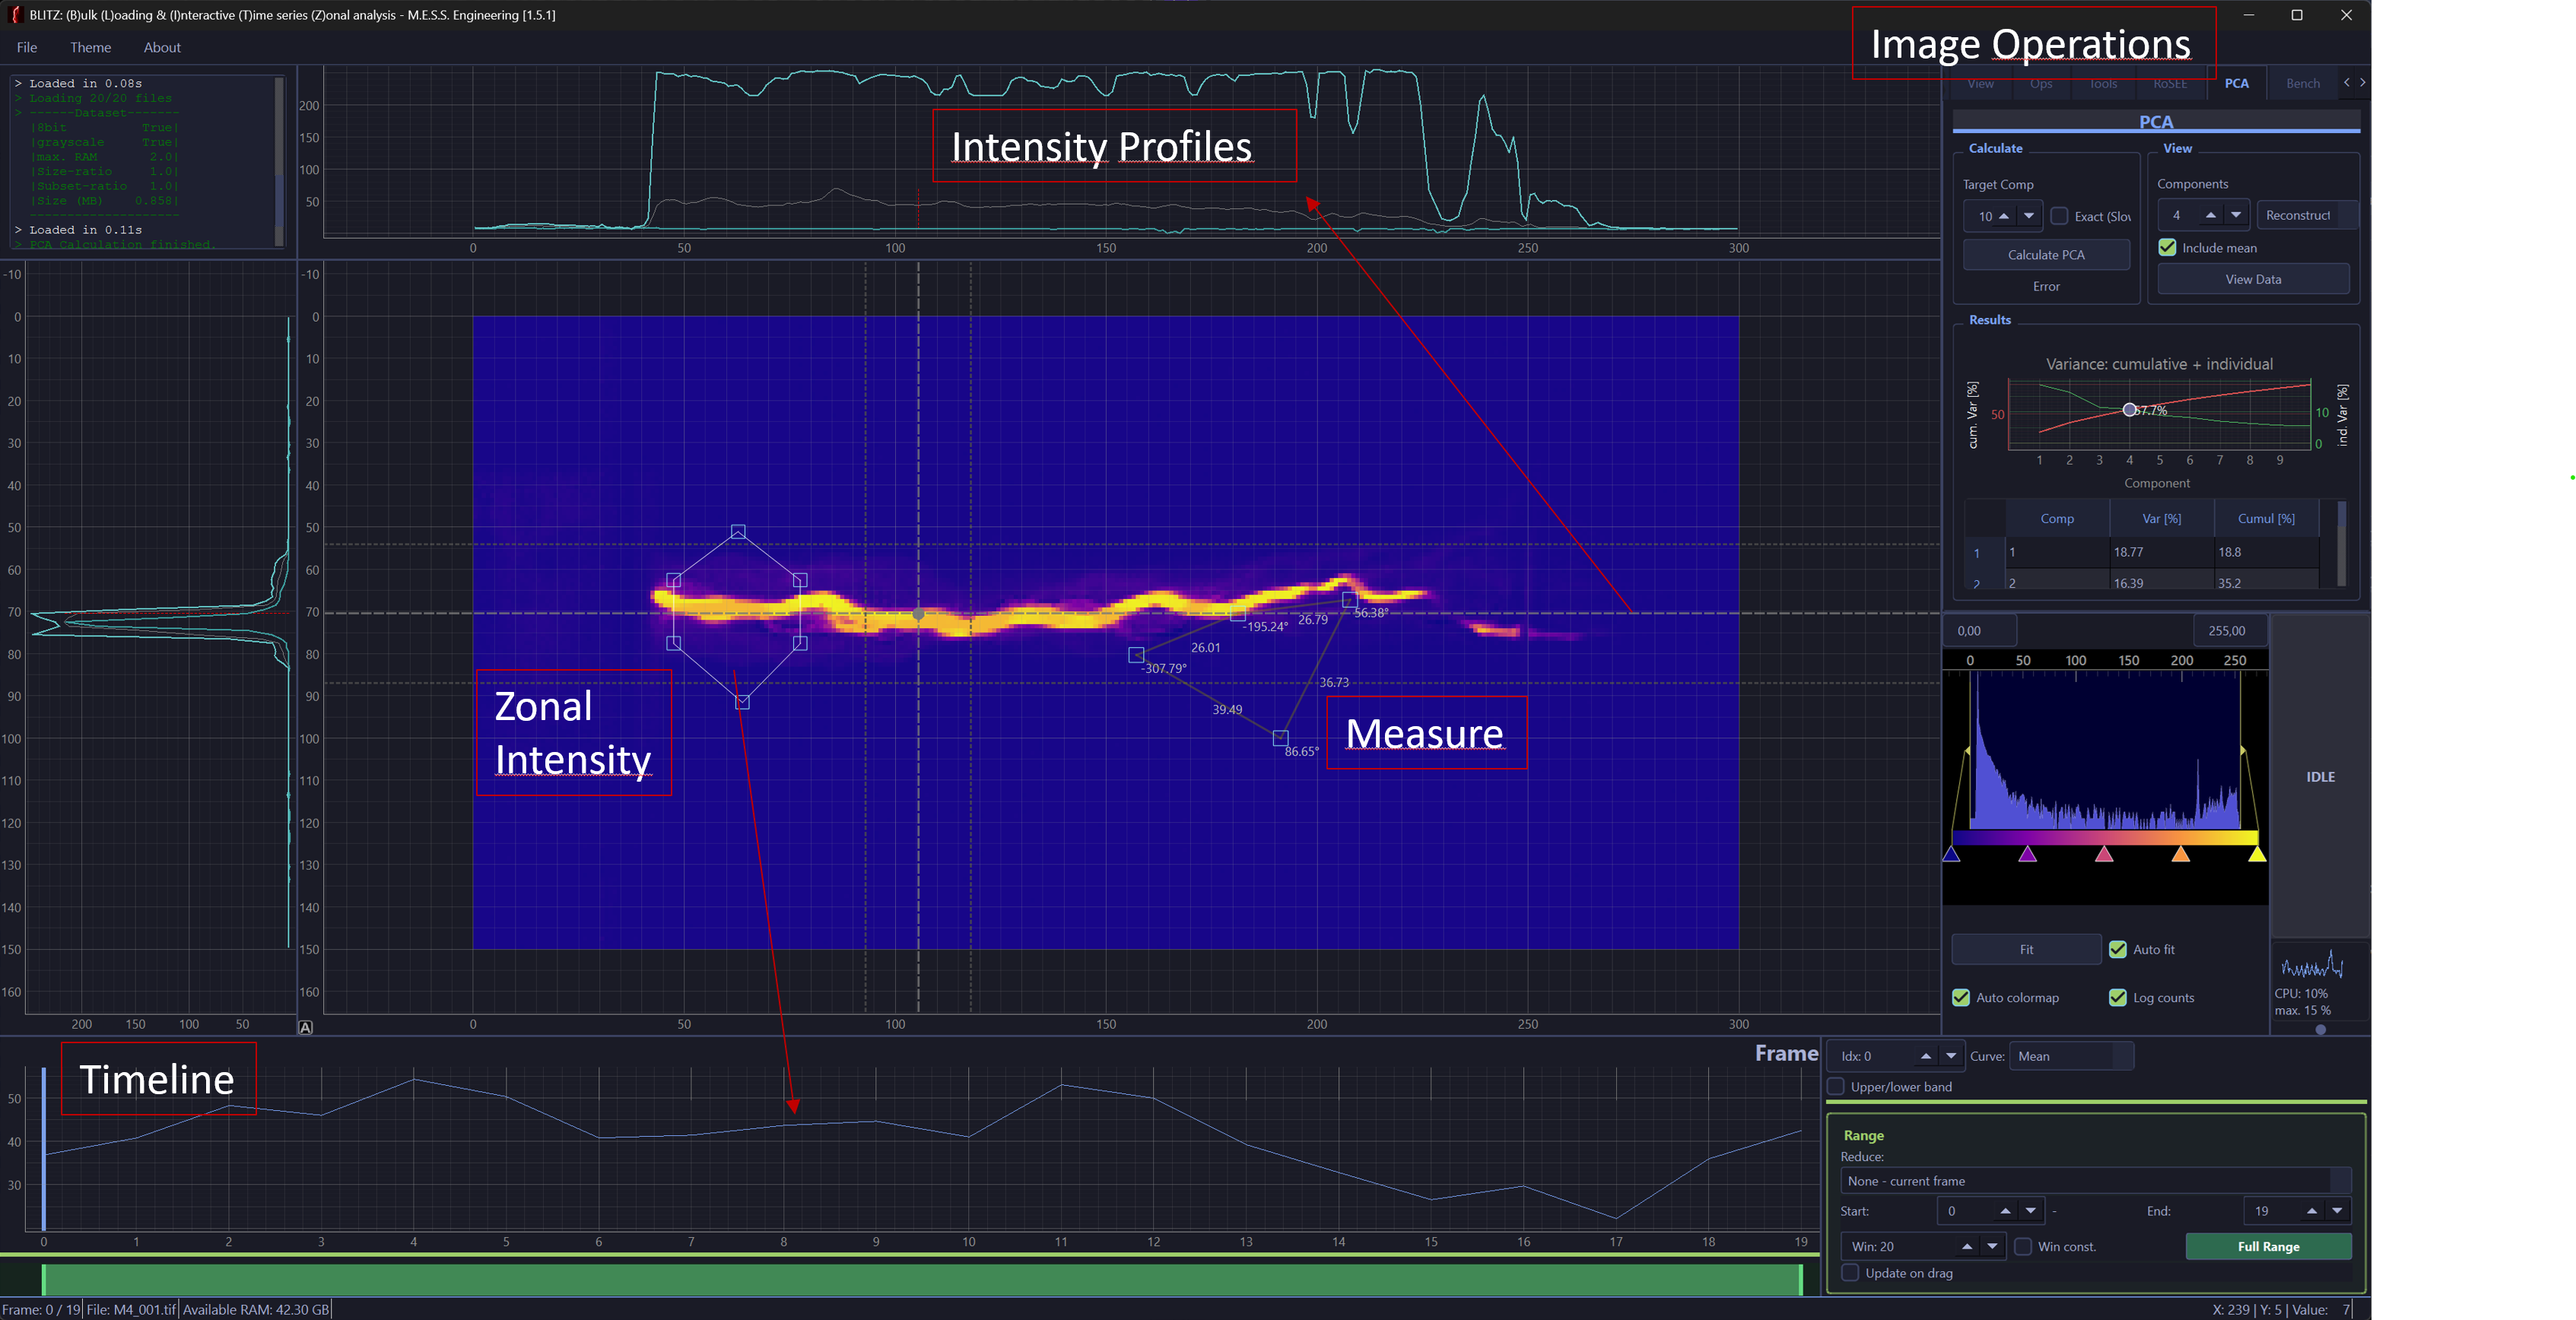
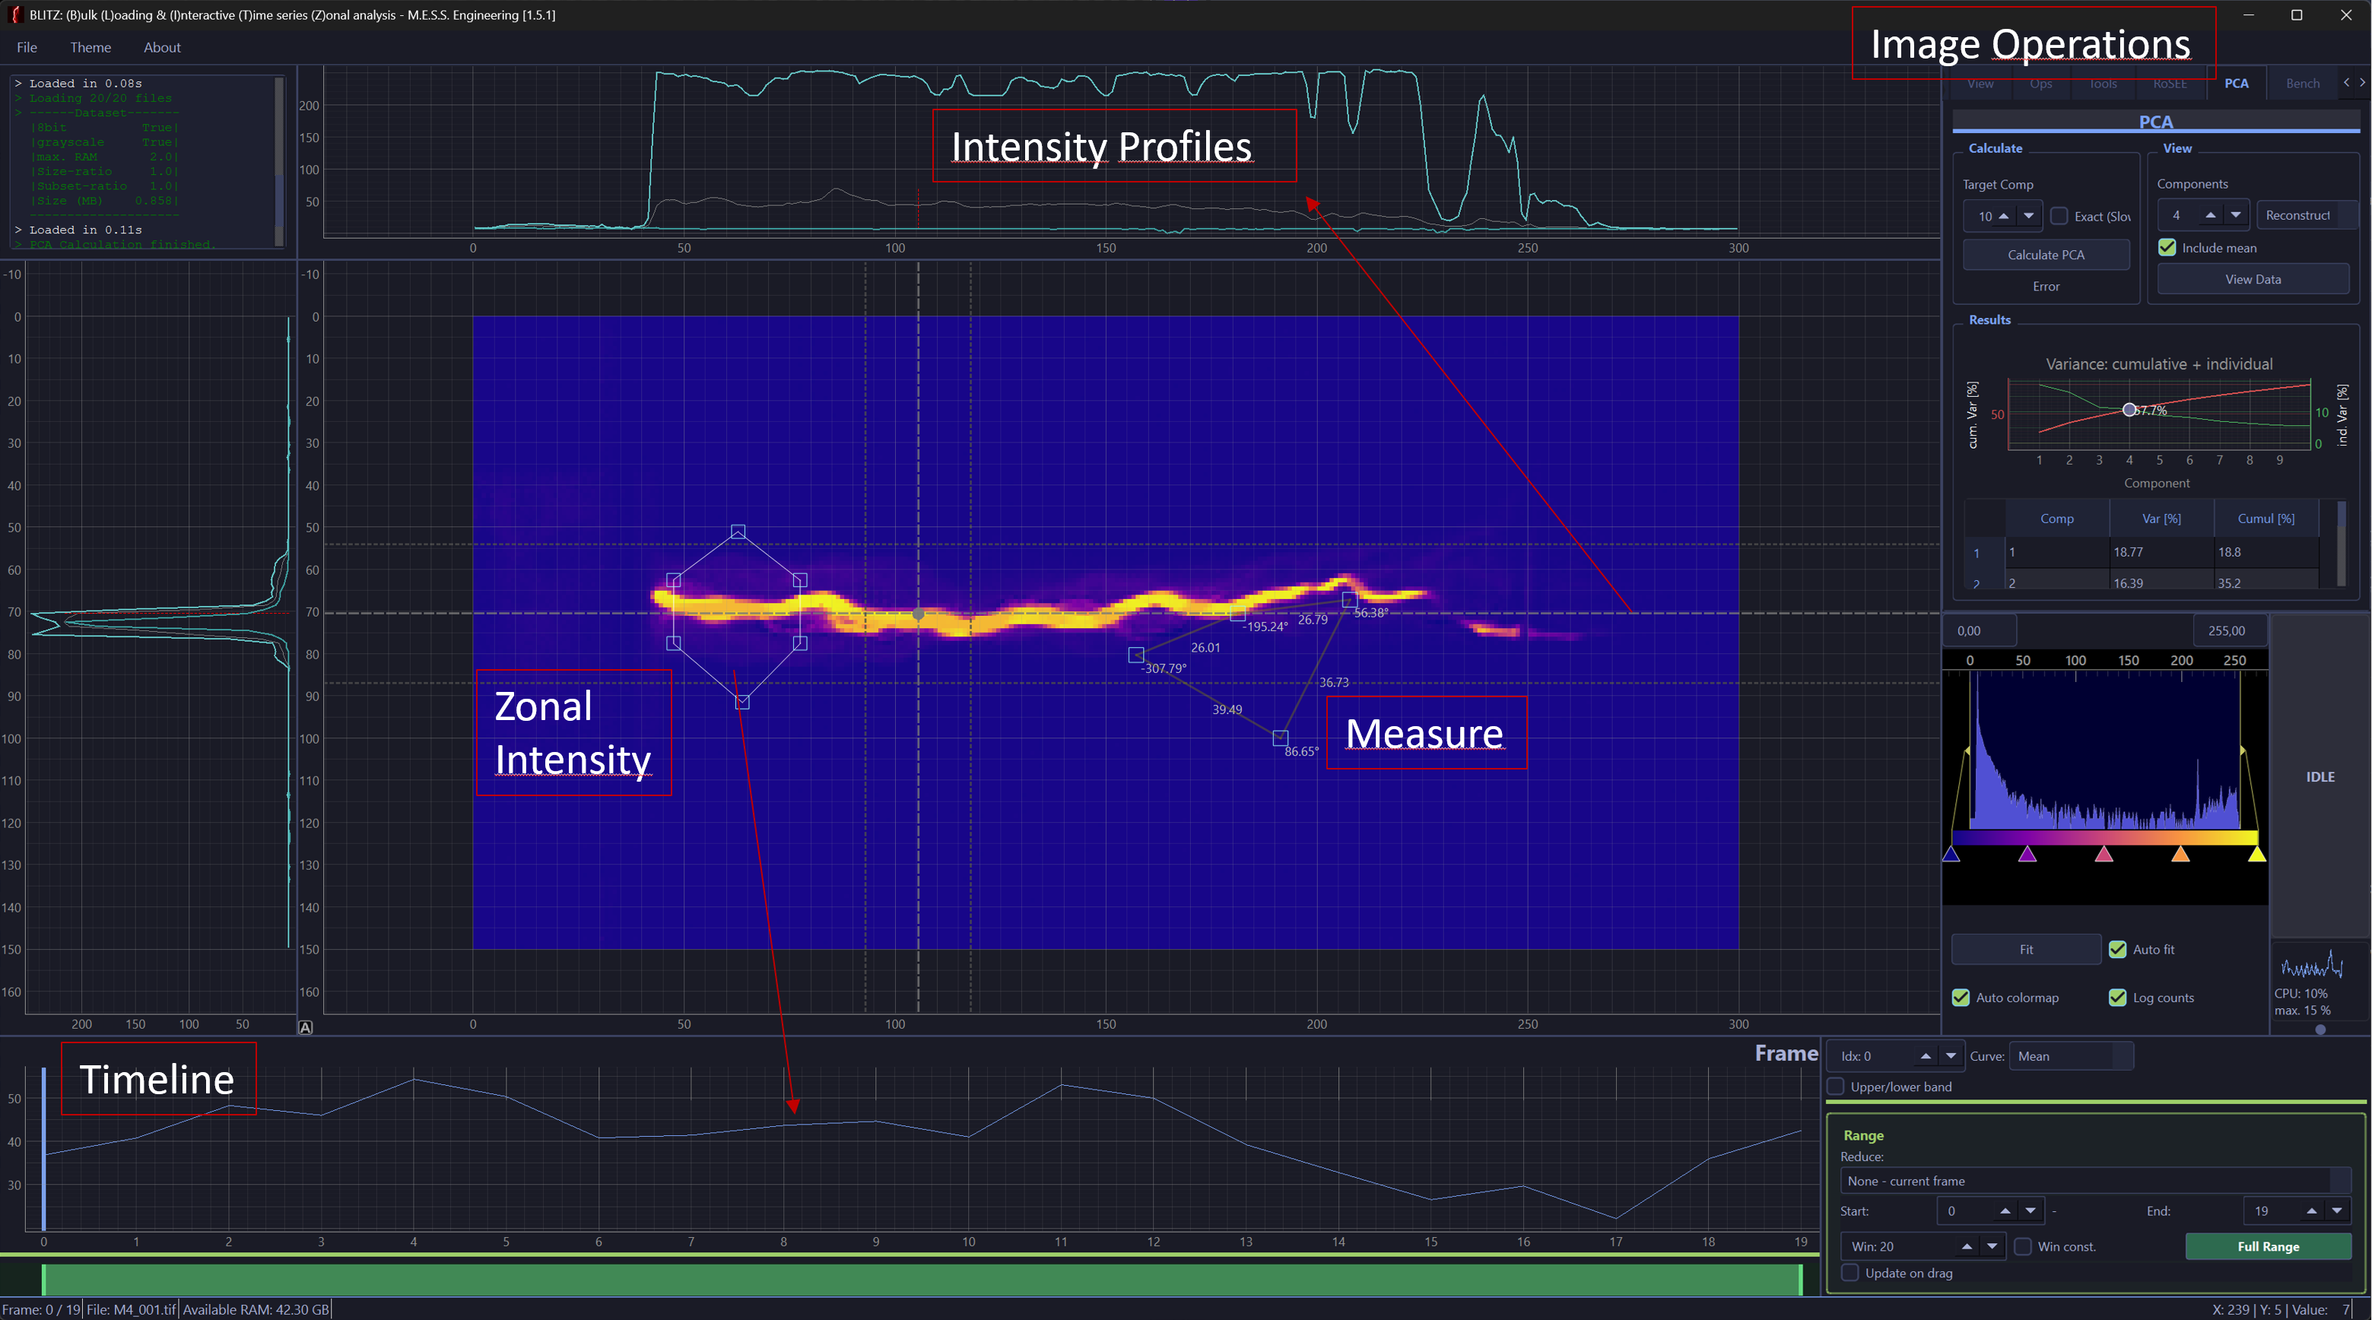
Bump version to 2.0.5 and refresh Flathub store metadata.
Clarify WETTER Framework context, CTA, and homepage; drop the incorrect help URL.

diff --git a/flatpak/README.md b/flatpak/README.md
@@ -76,7 +76,7 @@ Match `--runtime` to the manifest `runtime-version` / SDK branch.
    File: `https://mess.engineering/.well-known/org.flathub.VerifiedApps.txt`
    (path reserved; paste the Developer Portal token after the app exists on Flathub).
 
-2. **Pinned source:** `engineering.mess.BLITZ.yml` already uses git tag `v2.0.4`.
+2. **Pinned source:** `engineering.mess.BLITZ.yml` already uses git tag `v2.0.5`.
    When shipping a new release, bump `tag` and `commit` together.
 
 3. Fork [flathub/flathub](https://github.com/flathub/flathub), open a PR against
